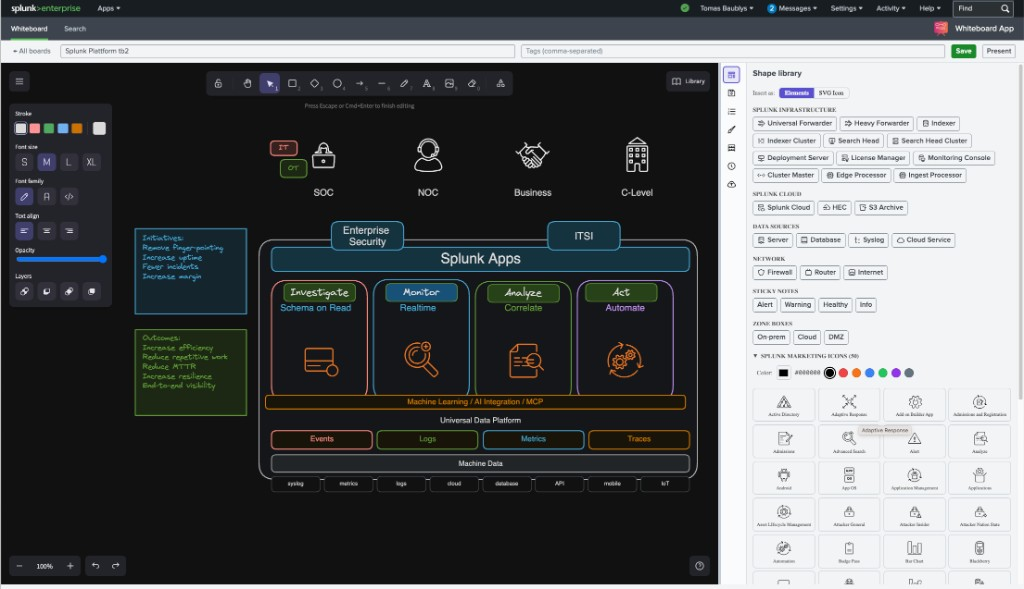
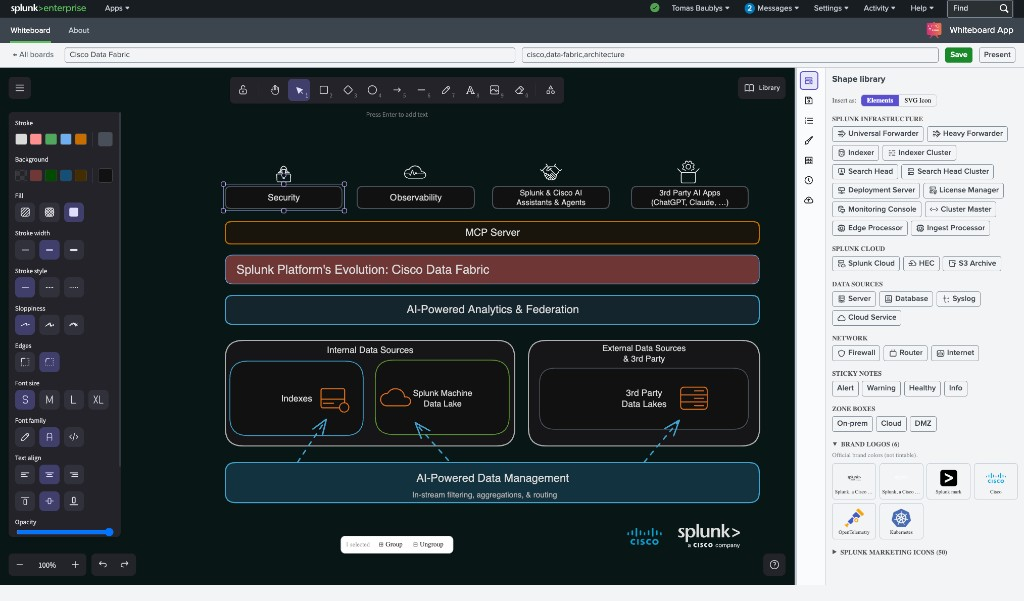
Release v0.3.54 — SSAI/SLIM fixes, Splunkbase copy, README screenshot.

diff --git a/src/web/lib/version.js b/src/web/lib/version.js
@@ -1,1 +1,1 @@
-export const APP_VERSION = '0.3.53';
+export const APP_VERSION = '0.3.54';

diff --git a/splunkbase.md b/splunkbase.md
@@ -1,12 +1,18 @@
 # Whiteboard App — Splunkbase listing content
 
-Copy the sections below into the Splunkbase app listing fields (Summary, Details, Installation, Troubleshooting), matching the structure used for [Ponypoll](https://splunkbase.splunk.com/app/8767).
+Copy the sections below into the Splunkbase app listing fields (Short Description, Summary, Details, Installation, Troubleshooting), matching the structure used for [Ponypoll](https://splunkbase.splunk.com/app/8767).
+
+---
+
+## Short Description
+
+Collaborative Excalidraw whiteboard inside Splunk for platform architecture and workshop diagrams. Splunk shapes, templates, and KV Store persistence — no external infrastructure.
 
 ---
 
 ## Summary
 
-Whiteboard App turns any Splunk instance into a collaborative architecture canvas — no external database, no middleware, no extra infrastructure. Draw Splunk platform diagrams, workshop layouts, and use-case storyboards directly inside Splunk Web with a full Excalidraw-powered editor styled to match Splunk's dark and light themes. Boards, templates, and version history persist in Splunk KV Store, so every user on the instance can open, edit, and share the same content. A built-in Splunk shape library covers forwarders, indexers, search heads, Edge Processor, Ingest Processor, Splunk Cloud, and more — plus 50 Splunk Marketing Icons you can tint and drop onto the canvas. Ship with ready-made templates (Splunk Platform, Cisco Data Fabric), save your own templates to KV Store, export PNG/SVG/JSON, or present step-by-step with Build mode progressive reveal. Optional Excalidraw library import is opt-in only. This is not a diagramming SaaS wrapped in an iframe — it is a native Splunk app built for architects, SEs, and workshop facilitators who want to sketch platform designs where their audience already lives.
+Whiteboard App is a native Splunk canvas for architecture and workshop diagrams — no external database or middleware. Draw inside Splunk Web with Excalidraw, Splunk infrastructure shapes, and built-in templates; boards persist in KV Store for the whole instance. Export PNG/SVG/JSON or walk through designs step-by-step in Present mode. Built for architects, SEs, and facilitators who sketch where their audience already works.
 
 ---
 
@@ -68,7 +74,7 @@ The app does not phone home and includes no product analytics. The **Excalidraw 
 
 | Platform | Minimum version |
 |---|---|
-| Splunk Enterprise | 9.0.0 |
+| Splunk Enterprise | 9.0.0 (manifest declares `"Enterprise": "*"` for SSAI) |
 | Splunk Cloud (Victoria) | 9.0.0 |
 
 Splunk 8.x is not supported. The app uses `@splunk/react-page` 8.x and `@splunk/react-ui` 5.x on Splunk's custom HTML dashboard framework. No custom `bin/` search commands or data inputs are required. Expected to run on Splunk 10.x; no upper bound is declared.

diff --git a/README.md b/README.md
@@ -9,7 +9,7 @@ Collaborative whiteboard embedded inside Splunk — built with React + [Excalidr
 **GitHub:** https://github.com/bautt/splunk-whiteboard-app
 
 <p align="center">
-  <img src="assets/screenshot.png" alt="Splunk Whiteboard App — dark canvas with architecture diagram and Splunk shape library" width="900" />
+  <img src="assets/screenshot.png" alt="Splunk Whiteboard App — Cisco Data Fabric architecture diagram with Splunk shape library" width="900" />
 </p>
 
 ---
@@ -298,4 +298,4 @@ To export KV templates from a live Splunk instance: `scripts/export-kv-templates
 
 ### Splunk version compatibility
 
-Minimum **9.0.0** on Enterprise and Cloud. The UI uses Splunk's custom HTML dashboard framework with `@splunk/react-page` 8.x and `@splunk/react-ui` 5.x, which target the Splunk 9.x web stack. KV Store REST APIs used for persistence are supported on Splunk Cloud Victoria stacks. No upper bound is declared; the app is a client-side React bundle with no custom `bin/` commands and is expected to run on Splunk 10.x as well. Splunk 8.x is not supported.
+Minimum **9.0.0** on Enterprise and Cloud (tested stack: `@splunk/react-page` 8.x, `@splunk/react-ui` 5.x). The `app.manifest` declares `"Enterprise": "*"` for Splunkbase SSAI/SLIM compatibility (semver ranges like `>=9.0.0` are rejected; `Cloud` is not a valid manifest edition key). Splunk 8.x is not supported.
